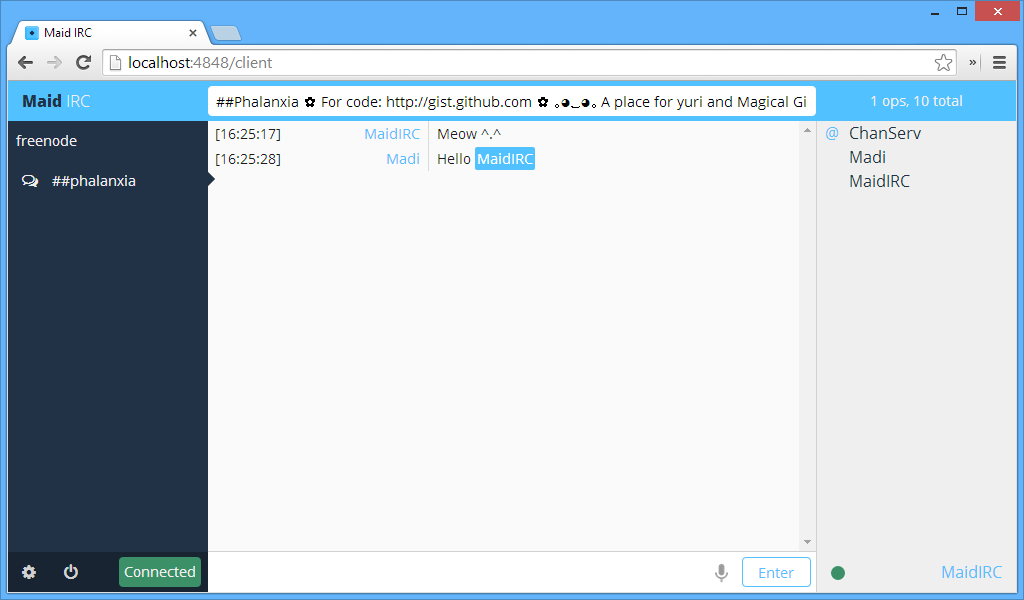
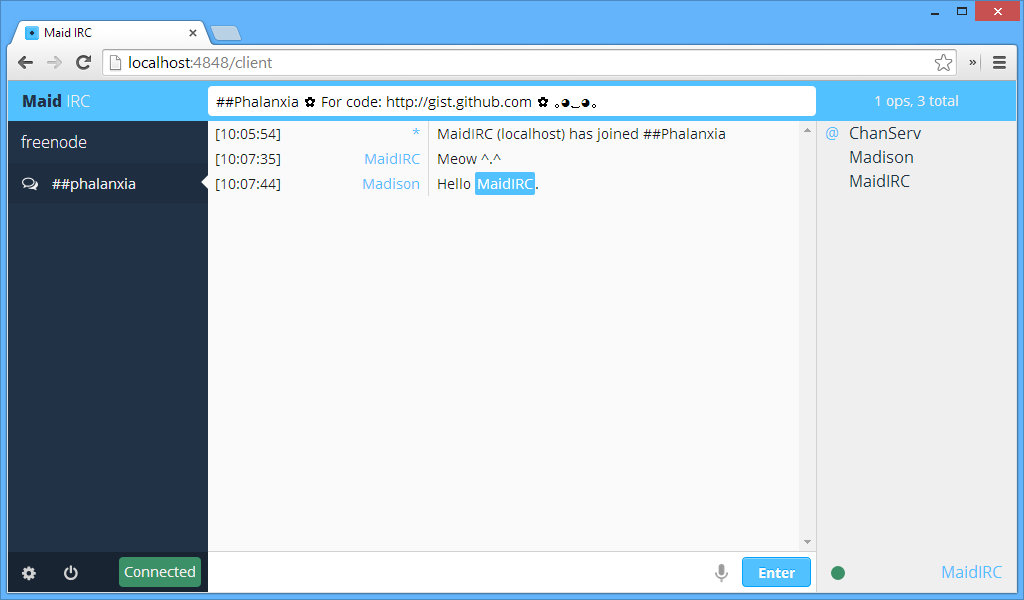
Updated screenshots and some css

diff --git a/public/css/client.less b/public/css/client.less
@@ -20,6 +20,17 @@
 	color: #efefef;
 }
 
+html, body {
+	position: absolute;
+	width: 100%;
+	height: 100%;
+	font-family: 'Open Sans', Helvetica, sans-serif;
+	background: #fafafa;
+	overflow: hidden;
+	display: flex;
+	flex-flow: row nowrap;
+}
+
 a, a:visited {
 	text-decoration: none;
 	color: @brightBlue;
@@ -37,37 +48,27 @@ a:active {
 
 .btn {
 	padding: 0;
-	background: none;
-	border: 1px solid @brightBlue;
-	border-radius: 4px;
-	color: @brightBlue;
-	font-size: 14px;
-	line-height: 30px;
 	-webkit-user-select: none;
 	-moz-user-select: none;
 	user-select: none;
+	width: 250px;
+	height: 44px;
+	background: @brightBlue;
+	border: 1px solid darken(@brightBlue, 16%);
+	border-radius: 4px;
+	box-shadow: inset 0 1px lighten(@brightBlue, 12%);
+	color: #fafbfb;
+	font-size: 14px;
+	font-weight: bold;
+	text-shadow: 0px -1px darken(@brightBlue, 16%);
 	&:hover {
 		cursor: pointer;
-		background-color: @brightBlue;
-		color: #ffffff;
 	}
 	&:active {
-		cursor: pointer;
-		background-color: @brightBlue;
-		box-shadow: inset 0 2px 6px rgba(60, 60, 60, 0.4);
-		color: #ffffff;
+		box-shadow: inset 0 1px lighten(@brightBlue, 5%);
+		background-color: darken(@brightBlue, 6%);
+		color: #fafbfb;
 	}
-}
-
-html, body {
-	position: absolute;
-	width: 100%;
-	height: 100%;
-	font-family: 'Open Sans', Helvetica, sans-serif;
-	background: #fafafa;
-	overflow: hidden;
-	display: flex;
-	flex-flow: row nowrap;
 }
 
 #sidebar {
@@ -129,6 +130,9 @@ html, body {
 			height: 40px;
 			line-height: 40px;
 			color: #efefef;
+			transition: background-color 0.1s ease-in-out;
+				-webkit-transition: background-color 0.1s ease-in-out;
+				-moz-transition: background-color 0.1s ease-in-out;
 			&:nth-child(odd) {
 				background-color: darken(@midBlue, 2%);
 			}
@@ -157,7 +161,6 @@ html, body {
 			}
 			&[data-alert] {
 				&:after {
-					display: block;
 					float: right;
 					min-width: 16px;
 					height: 20px;

diff --git a/public/css/index.less b/public/css/index.less
@@ -56,7 +56,6 @@ form {
 	top: 50%;
 	left: 50%;
 	width: 290px;
-	margin: 20px;
 	transform: translate(-50%, -50%);
 		-webkit-transform: translate(-50%, -50%);
 		-moz-transform: translate(-50%, -50%);
